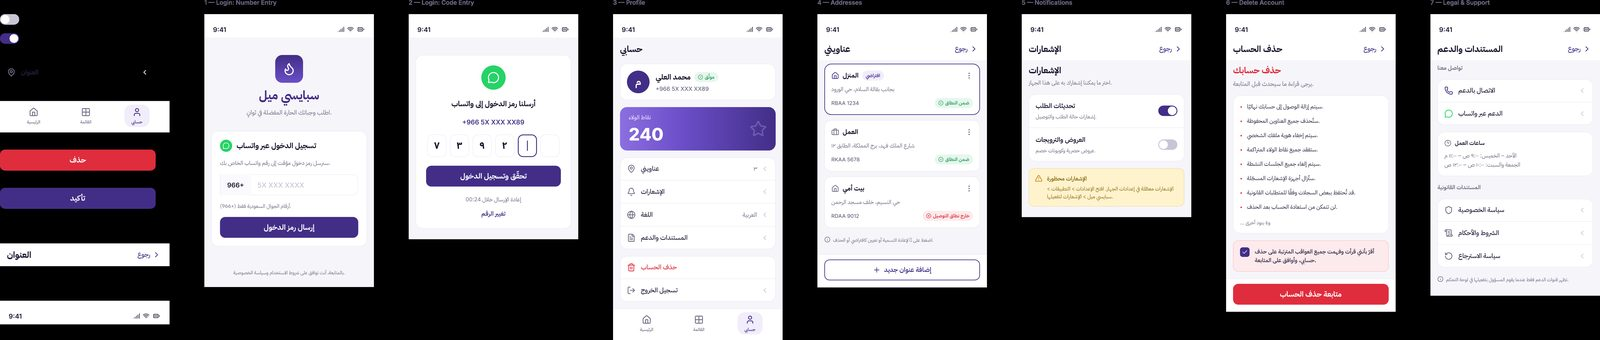
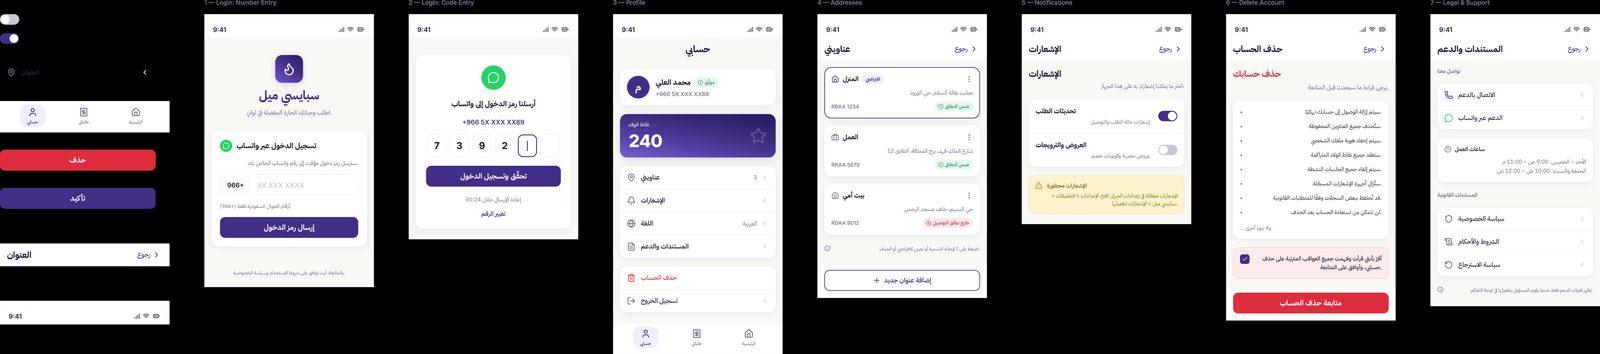
design(05): re-export refined account screens, cap slice height
Tab bar corrected to the real three tabs. Craft pass applied. Slicer now
caps the long edge so a single phone artboard does not export at 1800px
wide and 3500px tall.

Claude-Session: https://claude.ai/code/session_013aE4qAWLr9uZqQniV5Sm13

diff --git a/design/make-web-exports.py b/design/make-web-exports.py
@@ -106,8 +106,16 @@ def artboard_bands(img: Image.Image, axis: str = "x", pad: int = 24):
     return out or None
 
 
+MAX_HEIGHT = 2200
+
+
 def emit(img: Image.Image, path: str, width: int, quality: int) -> None:
     height = int(img.height * width / img.width)
+    # A single phone artboard scaled to the full slice width comes out absurdly
+    # tall; cap the long edge so tall bands stay viewable.
+    if height > MAX_HEIGHT:
+        width = int(width * MAX_HEIGHT / height)
+        height = MAX_HEIGHT
     img.resize((width, height), Image.LANCZOS).save(
         path, "JPEG", quality=quality, optimize=True
     )
